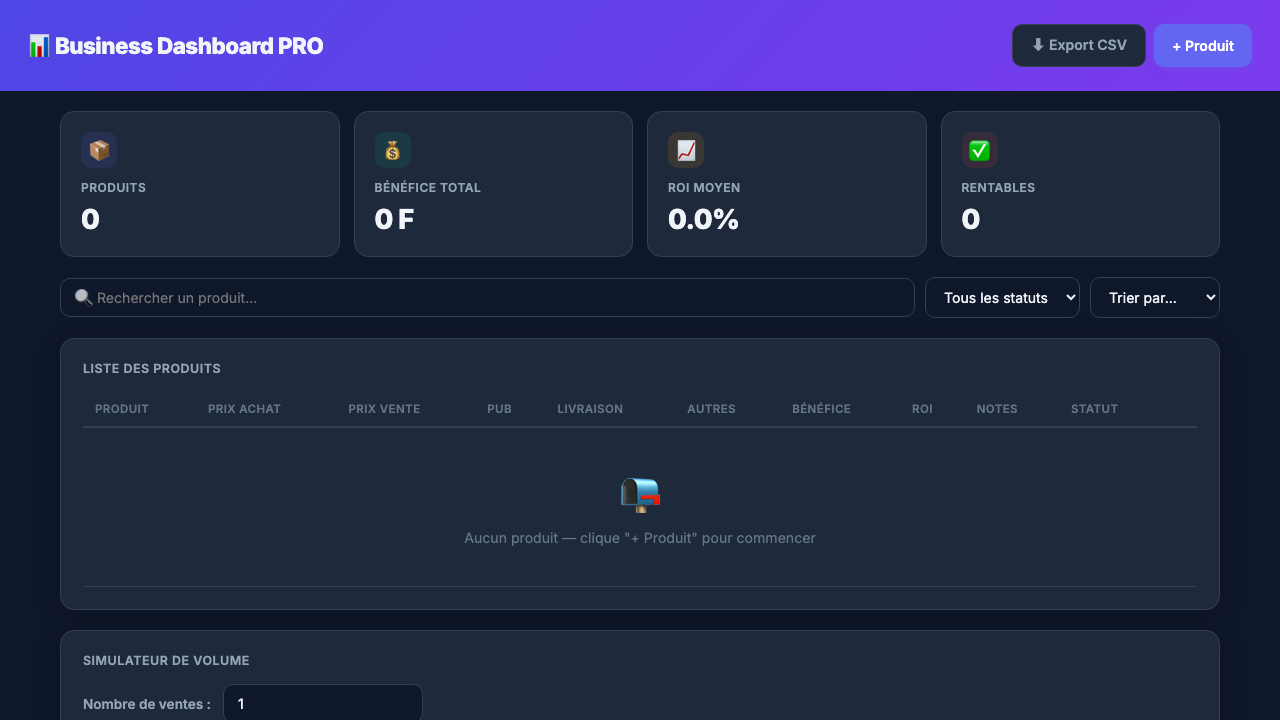
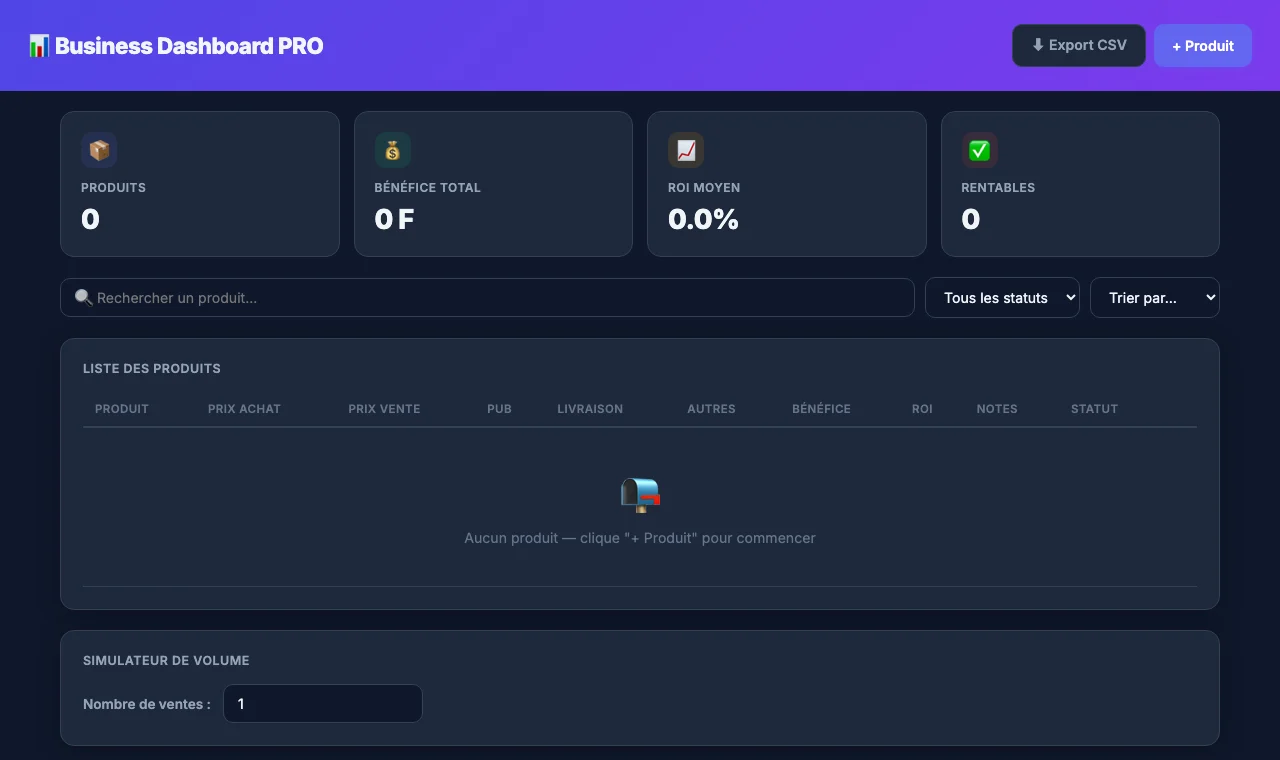
Projet Mon Produit -> Vue 3 (migration Vite + Chart.js), capture live + liens (categorie Vue)

diff --git a/src/components/Projects.jsx b/src/components/Projects.jsx
@@ -14,7 +14,7 @@ export const fallbackProjects = [
   { id: 3, title: 'MODALLAS', description: "Site vitrine d'une agence de décoration événementielle au Bénin, migré en React.", longDescription: "Migration d'un site vitrine statique multi-pages vers une application React (Vite + React Router), en conservant le rendu et le design à l'identique. Toutes les interactions ont été portées en composants et hooks : galerie filtrable, carrousel de témoignages, timeline animée du processus, formulaire de devis (EmailJS), popup et bandeau cookies. Déployé sur Vercel.", role: 'Migration & développement front-end', year: '2026', imageUrl: '/images/modallas.webp', category: 'React', tech: ['React', 'Vite', 'React Router', 'Bootstrap'], github: 'https://github.com/JOJODEVS-GIT/MODALLAS', live: 'https://modallas.vercel.app' },
   { id: 4, title: 'Afro Flash Bénin', description: "Média d'actualités du Bénin développé avec Laravel — base de données, rubriques et back-end.", longDescription: "Refonte complète d'un site vitrine statique en un véritable média en ligne avec Laravel : architecture MVC, base de données relationnelle (Eloquent), gestion des articles par rubriques, bandeau « dernière minute », recherche, pages article détaillées (auteur, temps de lecture, tags, partage réseaux) et formulaires contact/newsletter enregistrés en base. Déployé via Docker sur Render.", role: 'Conception & développement back-end', year: '2026', imageUrl: '/images/afro-flash-benin.webp', category: 'Laravel', tech: ['Laravel', 'PHP', 'MySQL', 'Blade', 'Tailwind'], github: 'https://github.com/JOJODEVS-GIT/afro-flash-benin', live: 'https://afro-flash-benin.onrender.com' },
   { id: 5, title: 'Reality Prompt Engine', description: 'Générateur de prompts éditoriaux avec génération de contenu par IA (Google Gemini).', longDescription: "Migration d'un outil statique vers une application React, enrichie d'une véritable intégration IA. À partir d'une configuration (plateforme, public, thème, ton…), l'app construit un prompt structuré puis génère réellement le post via l'API Google Gemini, appelée par une fonction serverless qui garde la clé côté serveur. Mode clair/sombre et copie en un clic conservés.", role: 'Développement & intégration IA', year: '2026', imageUrl: '/images/reality-prompt.webp', category: 'React', tech: ['React', 'Vite', 'Serverless', 'Google Gemini'], github: 'https://github.com/JOJODEVS-GIT/REALITY-PROMPT-ENGINE', live: 'https://reality-prompt-engine.vercel.app' },
-  { id: 6, title: 'Mon Produit', description: 'Dashboard de gestion de produits avec statistiques, ROI et suivi des bénéfices.', longDescription: "Tableau de bord de gestion de produits avec statistiques, calcul de ROI et suivi des bénéfices. Un outil concret pour piloter une activité au quotidien.", role: 'Développement front-end', year: '2024', imageUrl: '/images/mon-produit.webp', category: 'HTML/CSS/JS', tech: ['HTML', 'CSS', 'JavaScript'], github: 'https://github.com/JOJODEVS-GIT/MON-PRODUIT', live: 'https://jojodevs-git.github.io/MON-PRODUIT/' },
+  { id: 6, title: 'Mon Produit', description: 'Tableau de bord de rentabilité produits (bénéfice, ROI, graphiques), migré en Vue 3.', longDescription: "Migration d'un outil statique vers une application Vue 3 (Composition API). Tableau éditable en ligne, calcul automatique du bénéfice et du ROI, statut de rentabilité, simulateur de volume, graphiques (Chart.js), export CSV et persistance locale. Le rendu et le comportement d'origine sont conservés.", role: 'Migration & développement (Vue.js)', year: '2026', imageUrl: '/images/mon-produit.webp', category: 'Vue', tech: ['Vue 3', 'Vite', 'Chart.js', 'localStorage'], github: 'https://github.com/JOJODEVS-GIT/MON-PRODUIT', live: 'https://mon-produit.vercel.app' },
   { id: 7, title: 'QCM JavaScript', description: 'Quiz interactif JavaScript — 70 questions, 7 thèmes, timer 20s par question.', longDescription: "Quiz interactif pour s'entraîner en JavaScript : 70 questions réparties en 7 thèmes, timer de 20s par question et statistiques de résultats. Ludique et pédagogique.", role: 'Conception & développement', year: '2024', imageUrl: '/images/qcm-javascript.webp', category: 'HTML/CSS/JS', tech: ['HTML', 'CSS', 'JavaScript'], github: 'https://github.com/JOJODEVS-GIT/QCM-JAVASCRIPT', live: 'https://jojodevs-git.github.io/QCM-JAVASCRIPT/' },
   { id: 8, title: 'Suivi Chauffeur', description: 'Suivi de paiements chauffeur en temps réel (Firebase), migré en React.', longDescription: "Migration d'un outil statique vers une application React (Vite) connectée à Firebase Firestore : synchronisation temps réel entre appareils, ajout et suppression de paiements protégés par code PIN, barre de progression vers un objectif, historique paginé et mode sombre. Le rendu et le comportement d'origine sont conservés, sur le même projet Firestore.", role: 'Migration & développement (React + Firebase)', year: '2026', imageUrl: '/images/suivi-chauffeur.webp', category: 'React', tech: ['React', 'Vite', 'Firebase', 'Firestore'], github: 'https://github.com/JOJODEVS-GIT/SUIVI-CHAUFFEUR', live: 'https://suivi-chauffeur.vercel.app' },
   { id: 9, title: 'Générateur QR Codes', description: 'Outil desktop de génération de QR codes avec interface graphique Tkinter.', longDescription: "Application desktop de génération de QR codes avec une interface graphique Tkinter. Un utilitaire simple et efficace développé en Python.", role: 'Développement Python', year: '2023', gradient: 'from-purple-600 to-[#0F3460]', category: 'Python', tech: ['Python', 'Tkinter', 'qrcode'], github: 'https://github.com/JOJODEVS-GIT/GENERATEUR-QR-CODES' },

diff --git a/src/admin/Dashboard.jsx b/src/admin/Dashboard.jsx
@@ -71,7 +71,7 @@ const seedData = {
     { title: 'MODALLAS', description: "Site vitrine de décoration événementielle au Bénin, migré d'un site statique vers React (Vite + React Router).", category: 'React', tech: ['React', 'Vite', 'React Router', 'Bootstrap'], github: 'https://github.com/JOJODEVS-GIT/MODALLAS', live: 'https://modallas.vercel.app', imageUrl: '/images/modallas.webp', order: 1 },
     { title: 'Afro Flash Bénin', description: "Média d'actualités du Bénin développé avec Laravel — base de données, rubriques et back-end.", category: 'Laravel', tech: ['Laravel', 'PHP', 'MySQL', 'Blade', 'Tailwind'], github: 'https://github.com/JOJODEVS-GIT/afro-flash-benin', live: 'https://afro-flash-benin.onrender.com', imageUrl: '/images/afro-flash-benin.webp', order: 2 },
     { title: 'Reality Prompt Engine', description: "Générateur de prompts éditoriaux avec génération de contenu par IA (Google Gemini), migré en React.", category: 'React', tech: ['React', 'Vite', 'Serverless', 'Google Gemini'], github: 'https://github.com/JOJODEVS-GIT/REALITY-PROMPT-ENGINE', live: 'https://reality-prompt-engine.vercel.app', imageUrl: '/images/reality-prompt.webp', order: 3 },
-    { title: 'Mon Produit', description: 'Dashboard de gestion de produits avec statistiques et suivi.', gradient: 'from-[#0F3460] to-blue-800', category: 'HTML/CSS/JS', tech: ['HTML', 'CSS', 'JavaScript'], github: 'https://github.com/JOJODEVS-GIT/MON-PRODUIT', live: 'https://mon-produit.vercel.app', imageUrl: '/images/mon-produit.webp', order: 4 },
+    { title: 'Mon Produit', description: 'Tableau de bord de rentabilité produits (bénéfice, ROI, graphiques), migré en Vue 3.', category: 'Vue', tech: ['Vue 3', 'Vite', 'Chart.js', 'localStorage'], github: 'https://github.com/JOJODEVS-GIT/MON-PRODUIT', live: 'https://mon-produit.vercel.app', imageUrl: '/images/mon-produit.webp', order: 4 },
     { title: 'QCM JavaScript', description: 'Quiz interactif JavaScript — 60 questions, timer, stats par thème.', gradient: 'from-yellow-600 to-[#16C79A]', category: 'HTML/CSS/JS', tech: ['HTML', 'CSS', 'JavaScript'], github: 'https://github.com/JOJODEVS-GIT/QCM-JAVASCRIPT', live: 'https://qcm-javascript.vercel.app', imageUrl: '/images/qcm-javascript.webp', order: 5 },
     { title: 'Suivi Chauffeur', description: 'Suivi de paiements chauffeur en temps réel avec Firebase, migré en React.', category: 'React', tech: ['React', 'Vite', 'Firebase', 'Firestore'], github: 'https://github.com/JOJODEVS-GIT/SUIVI-CHAUFFEUR', live: 'https://suivi-chauffeur.vercel.app', imageUrl: '/images/suivi-chauffeur.webp', order: 6 },
     { title: 'MERAYA — First Anniversary', description: 'Landing événementielle premium pour une marque de mode : hero vidéo, animations GSAP et réservation en ligne.', gradient: 'from-[#0F3460] to-[#16C79A]', category: 'React', tech: ['Next.js', 'React', 'TypeScript', 'GSAP', 'Tailwind'], github: 'https://github.com/JOJODEVS-GIT/meraya', live: 'https://meraya-demo.vercel.app', imageUrl: '/images/meraya.webp', order: 7 },
